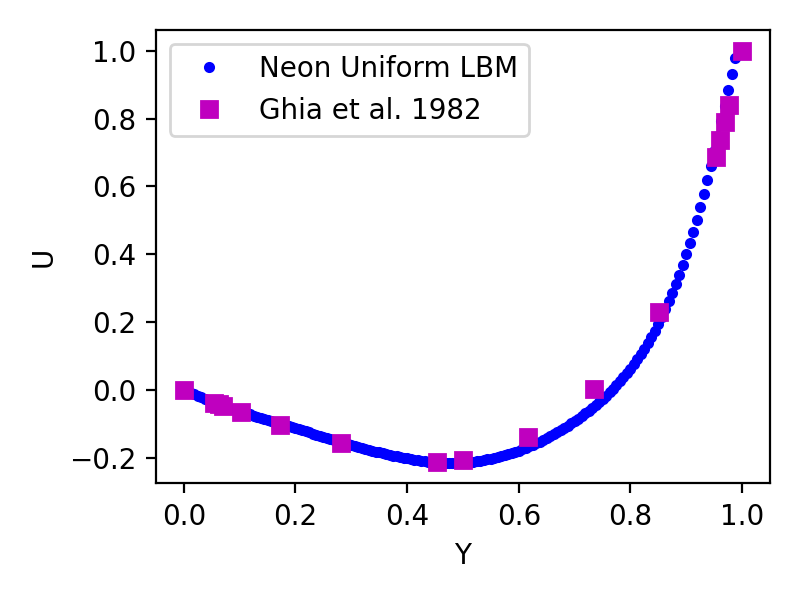
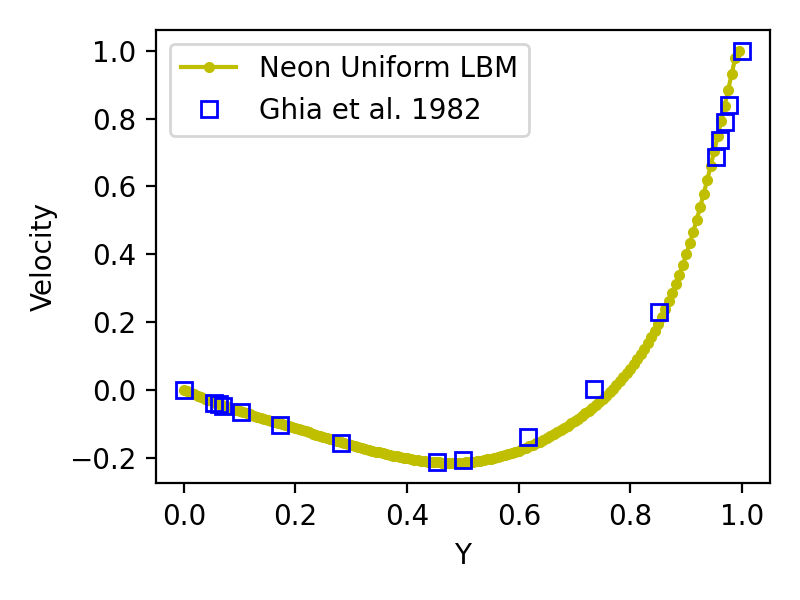
plot x velocity

diff --git a/apps/lbmMultiRes/scripts/plot.py b/apps/lbmMultiRes/scripts/plot.py
@@ -2,23 +2,39 @@ import os
 import numpy as np
 import matplotlib.pyplot as plt
 
-def plotme(dat_filename, label, png_filename, scale):
+
+def plotme(dat_filename_X="", dat_filename_Y="", label="", png_filename="", scale=1):
     fig, axes = plt.subplots(nrows=1, ncols=1, figsize=(4, 3), dpi=200)
 
-    y_neon, u_neon = np.loadtxt(dat_filename, unpack=True, usecols=(0, 1))
-    p = y_neon.argsort()
-    u_neon = u_neon[p]
-    y_neon = y_neon[p]
-    axes.plot(y_neon, scale*u_neon, 'b.', label=label)
+    if (dat_filename_Y!=""):
+        y_neon, u_neon = np.loadtxt(dat_filename_Y, unpack=True, usecols=(0, 1))
+        axes.plot(y_neon, scale*u_neon, 'y.-', label=label)
 
-    y_ref, u_ref = np.loadtxt('ghia1982.dat', unpack=True, skiprows=2, usecols=(0, 1))
-    axes.plot(y_ref, u_ref, 'ms', label='Ghia et al. 1982')
+        y_ref, u_ref = np.loadtxt('ghia1982.dat', unpack=True, skiprows=2, usecols=(0, 1))
+        axes.plot(y_ref, u_ref, 'bs', markerfacecolor='none', label='Ghia et al. 1982')
+
+    if (dat_filename_X!=""):        
+        x_neon, v_neon = np.loadtxt(dat_filename_X, unpack=True, usecols=(0, 1))
+        axes.plot(x_neon, scale*v_neon, 'g.-', label=label)    
+
+        x_ref, v_ref = np.loadtxt('ghia1982.dat', unpack=True, skiprows=2, usecols=(6, 7))
+        axes.plot(x_ref, v_ref, 'ks', markerfacecolor='none',
+                  label='Ghia et al. 1982')
 
     axes.legend()
     axes.set_xlabel(r'Y')
-    axes.set_ylabel(r'U')
+    axes.set_ylabel(r'Velocity')
     plt.tight_layout()
     plt.savefig(png_filename)
 
-plotme('NeonMultiResLBM_5000.dat', 'Neon MultiRes LBM', 'MultiResNeon_vs_ghia1982', 1)
-plotme('NeonUniformLBM_20000.dat', 'Neon Uniform LBM',  'UniformNeon_vs_ghia1982.png', 25)
+
+plotme(dat_filename_X='NeonMultiResLBM_5000_X.dat',
+       dat_filename_Y='NeonMultiResLBM_5000_Y.dat',
+       label='Neon MultiRes LBM',
+       png_filename='MultiResNeon_vs_ghia1982.png',
+       scale=1)
+
+plotme(dat_filename_Y='NeonUniformLBM_20000_Y.dat',
+       label='Neon Uniform LBM',
+       png_filename='UniformNeon_vs_ghia1982.png',
+       scale=25)

diff --git a/apps/lbmMultiRes/postProcess.h b/apps/lbmMultiRes/postProcess.h
@@ -100,7 +100,7 @@ void postProcess(Neon::domain::mGrid&                        grid,
                     }
 
                     if (id.y == grid_dim.y / 2 && id.z == grid_dim.z / 2) {
-                        if (card == 0) {
+                        if (card == 1) {
                             xPosVal.push_back({static_cast<double>(id.v[0]) / static_cast<double>(grid_dim.x), val * scale});
                         }
                     }
@@ -113,12 +113,16 @@ void postProcess(Neon::domain::mGrid&                        grid,
         NEON_INFO("Max difference = {0:.8f}", verifyGhia1982(Re, xPosVal, yPosVal));
     }
     if (generateValidateFile) {
-        std::ofstream file;
-        file.open("NeonMultiResLBM_" + suffix.str() + ".dat");
-        for (auto v : yPosVal) {
-            file << v.first << " " << v.second << "\n";
-        }
-        file.close();
+        auto writeToFile = [](const std::vector<std::pair<T, T>>& posVal, std::string filename) {
+            std::ofstream file;
+            file.open(filename);
+            for (auto v : posVal) {
+                file << v.first << " " << v.second << "\n";
+            }
+            file.close();
+        };
+        writeToFile(yPosVal, "NeonMultiResLBM_" + suffix.str() + "_Y.dat");
+        writeToFile(xPosVal, "NeonMultiResLBM_" + suffix.str() + "_X.dat");
     }
 }
 
